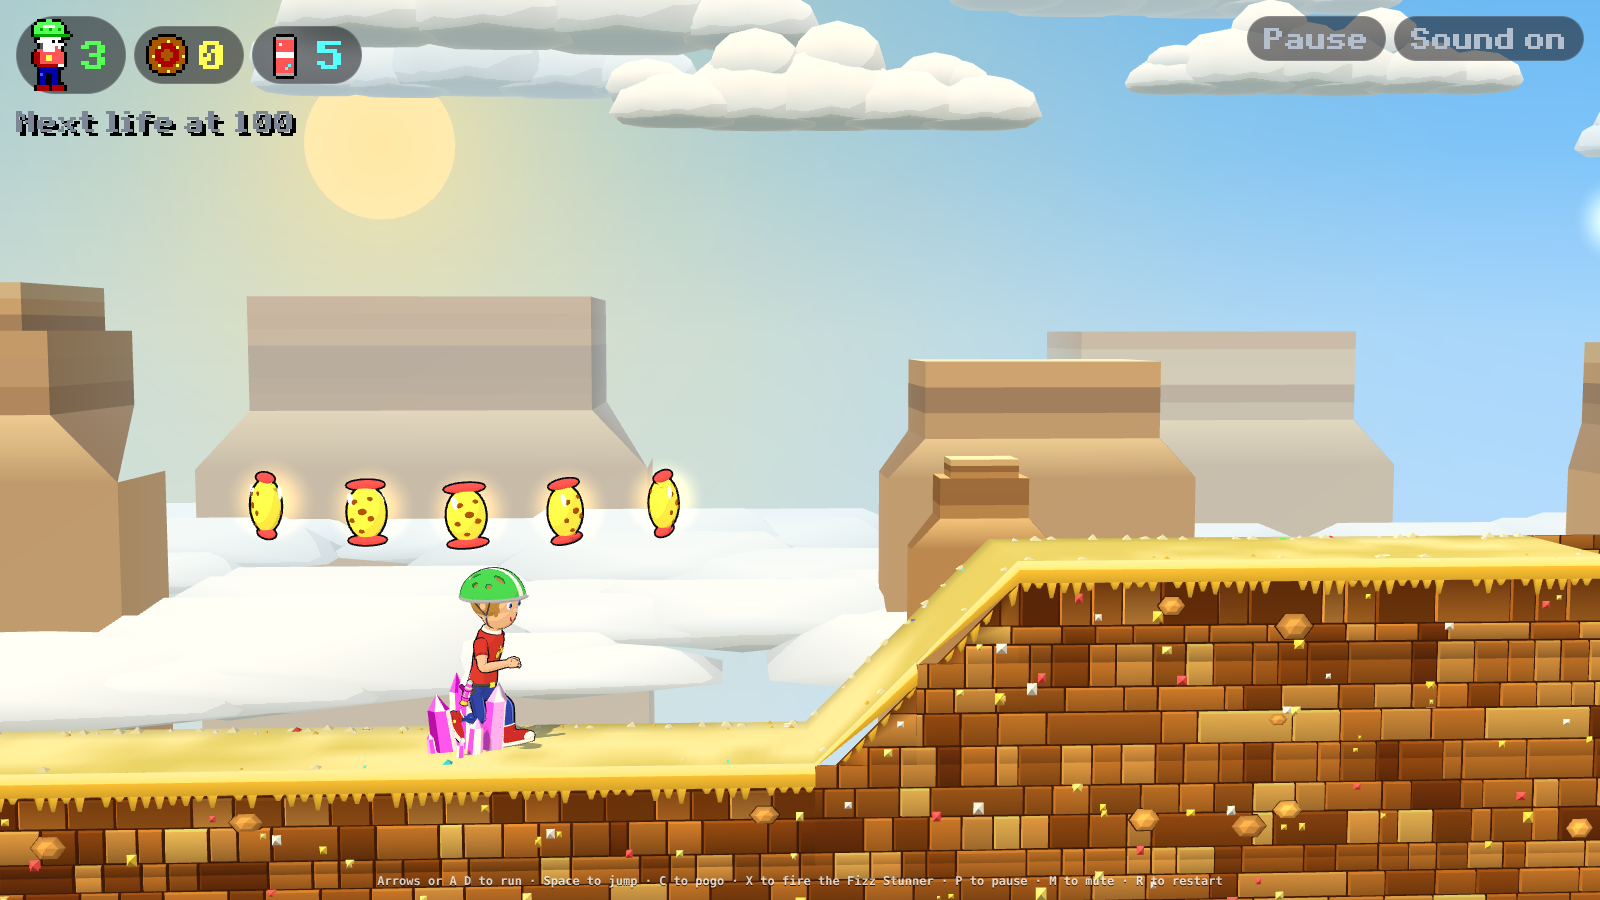
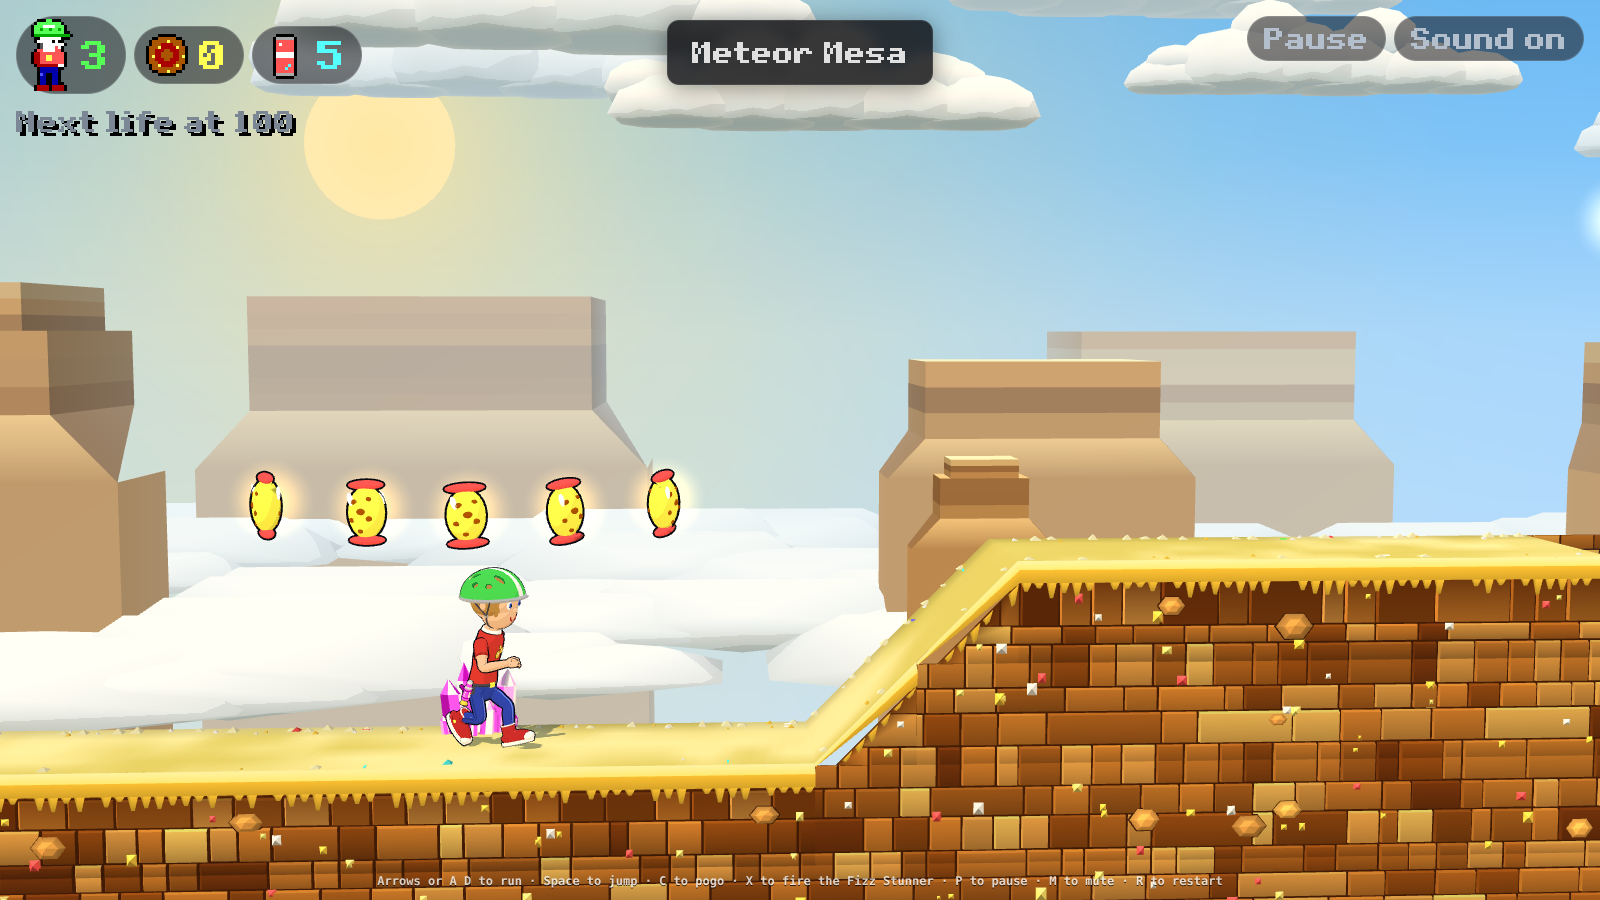
fix: stand the crystals behind Ben instead of in his path
A crystal cluster is scenery in the simulation, but its model stood on
the plane Ben runs on, so he ran through it. It now stands at the back
of the lane, half as deep as it is wide, with all of it behind him.

Its turn is baked into five geometry variants, so the cluster turns
about its own axis and stays in its cell. A test pins both.

Claude-Session: https://claude.ai/code/session_018Aej1TfpfLHvdijC1LEepz

diff --git a/src/model-3d/crater/terrain.test.ts b/src/model-3d/crater/terrain.test.ts
@@ -9,6 +9,7 @@ import type { FrameContext, SpriteDraw } from '../../level-3d/types.ts';
 import { depth } from '../toon.ts';
 import {
 	crystalGeometry,
+	crystalTurns,
 	doorGeometry,
 	exitBottomGeometry,
 	exitTopGeometry,
@@ -420,14 +421,18 @@ describe('pieces match their art', () => {
 		expect(floating.max.z - floating.min.z).toBeLessThan(boxOf(blockTile(true)).max.z * 2);
 	});
 
-	test('the crystal is within 10 percent of the art, 0.81 wide and 0.88 tall, and stays in its cell when turned', () => {
-		const box = boxOf(crystalGeometry());
-		expect(box.min.y).toBeCloseTo(-0.5, 6);
-		expect(Math.abs(box.max.y - box.min.y - 0.875)).toBeLessThan(0.0875);
-		expect(Math.abs(box.max.x - box.min.x - 0.8125)).toBeLessThan(0.08);
-		const turned = box.clone().applyMatrix4(new THREE.Matrix4().makeRotationY(0.12));
-		expect(turned.min.x).toBeGreaterThanOrEqual(-0.5);
-		expect(turned.max.x).toBeLessThanOrEqual(0.5);
+	test('the crystal is within 10 percent of the art, 0.81 wide and 0.88 tall, in its cell and behind the hero in every turn', () => {
+		for (let turn = 0; turn < crystalTurns; turn++) {
+			const box = boxOf(crystalGeometry(turn));
+			expect(box.min.y).toBeCloseTo(-0.5, 6);
+			expect(Math.abs(box.max.y - box.min.y - 0.875)).toBeLessThan(0.0875);
+			expect(Math.abs(box.max.x - box.min.x - 0.8125)).toBeLessThan(0.1);
+			expect(box.min.x).toBeGreaterThanOrEqual(-0.5);
+			expect(box.max.x).toBeLessThanOrEqual(0.5);
+			/* It is scenery at the back of the lane: nothing of it reaches the plane he runs on. */
+			expect(box.max.z).toBeLessThan(-0.4);
+			expect(box.min.z).toBeGreaterThanOrEqual(-depth.lane / 2);
+		}
 	});
 
 	test('the door is a tile wide and two tall, and the exit halves are a tile each', () => {

diff --git a/src/model-3d/crater/features.ts b/src/model-3d/crater/features.ts
@@ -453,9 +453,21 @@ function crystal(
 	}
 }
 
-/** A cluster of five pink and white crystals on the ground, 0.82 wide and 0.88 tall like the sprite. */
-export function crystalGeometry(): THREE.BufferGeometry {
-	return cached('crystal', () => {
+/** How far behind the middle of the lane a crystal cluster stands: its back just inside the ground's far edge. */
+const crystalDepth = -(depth.lane / 2 - 0.235);
+/** The cluster is half as deep as it is wide, so all of it fits behind him inside the lane. */
+const crystalFlatten = 0.5;
+/** How many ways a crystal cluster is turned about its own axis, and the widest turn in radians. */
+export const crystalTurns = 5;
+const crystalYaw = 0.24;
+
+/**
+ * A cluster of five pink and white crystals on the ground, 0.82 wide and 0.88 tall like the sprite, in one of
+ * `crystalTurns` slightly different turns. The turn is small, so the cluster stays inside its cell.
+ */
+export function crystalGeometry(turn = 0): THREE.BufferGeometry {
+	const yaw = (turn / (crystalTurns - 1) - 0.5) * crystalYaw;
+	return cached(`crystal${turn}`, () => {
 		const m = new Mesher(),
 			c = [
 				palette.crystalPink,
@@ -476,6 +488,7 @@ export function crystalGeometry(): THREE.BufferGeometry {
 		crystal(m, -0.05, 0.4, 0.04, 0.17, 0.01, [c[4], c[0], c[1]]);
 		crystal(m, 0.14, -0.33, 0.04, 0.13, 0.02, [c[2], c[1], c[0]]);
 		crystal(m, -0.33, -0.3, 0.035, 0.11, -0.02, [c[0], c[4], c[2]]);
-		return m.build();
+		/* The crystals are scenery, not something he touches: they stand at the back of the lane, behind him. */
+		return m.build().rotateY(yaw).scale(1, 1, crystalFlatten).translate(0, 0, crystalDepth);
 	});
 }

diff --git a/src/model-3d/crater/terrain.ts b/src/model-3d/crater/terrain.ts
@@ -12,6 +12,7 @@ import {
 	chocolateDeepGeometry,
 	chocolateTopGeometry,
 	crystalGeometry,
+	crystalTurns,
 	doorGeometry,
 	exitBottomGeometry,
 	exitLettersGeometry,
@@ -116,9 +117,6 @@ function exitActor(family: 'exitBot' | 'exitTop', first: SpriteDraw): Actor {
 	return tileActor(group, first);
 }
 
-/** The widest a crystal cluster turns about its own axis, in radians: small, so it stays inside its cell. */
-const crystalYaw = 0.24;
-
 const batch = new TileBatch(craterTheme);
 
 /** How a family's tiles are drawn in the batch, for the families that go in it. */
@@ -134,8 +132,8 @@ function batched(family: string, first: SpriteDraw): BatchedTile | null {
 		case 'crystal':
 			return {
 				look: 'glow',
-				geometry: crystalGeometry(),
-				yaw: (tileHash(x, y, 5) - 0.5) * crystalYaw,
+				geometry: crystalGeometry(Math.floor(tileHash(x, y, 5) * crystalTurns) % crystalTurns),
+				yaw: 0,
 				info: {},
 			};
 		case 'chocTop':
@@ -182,11 +180,16 @@ export const terrainModels: ModelSet = {
 					first,
 				);
 			case 'crystal': {
-				const mesh = tileMesh(crystalGeometry(), glowMaterial, { cast: true, receive: true }),
-					actor = tileActor(mesh, first);
-				mesh.rotation.y = (tileHash(first.x, first.y, 5) - 0.5) * crystalYaw;
-				mesh.updateMatrix();
-				return actor;
+				return tileActor(
+					tileMesh(
+						crystalGeometry(
+							Math.floor(tileHash(first.x, first.y, 5) * crystalTurns) % crystalTurns,
+						),
+						glowMaterial,
+						{ cast: true, receive: true },
+					),
+					first,
+				);
 			}
 		}
 		throw new Error(`terrain has no model for the family ${family}`);
